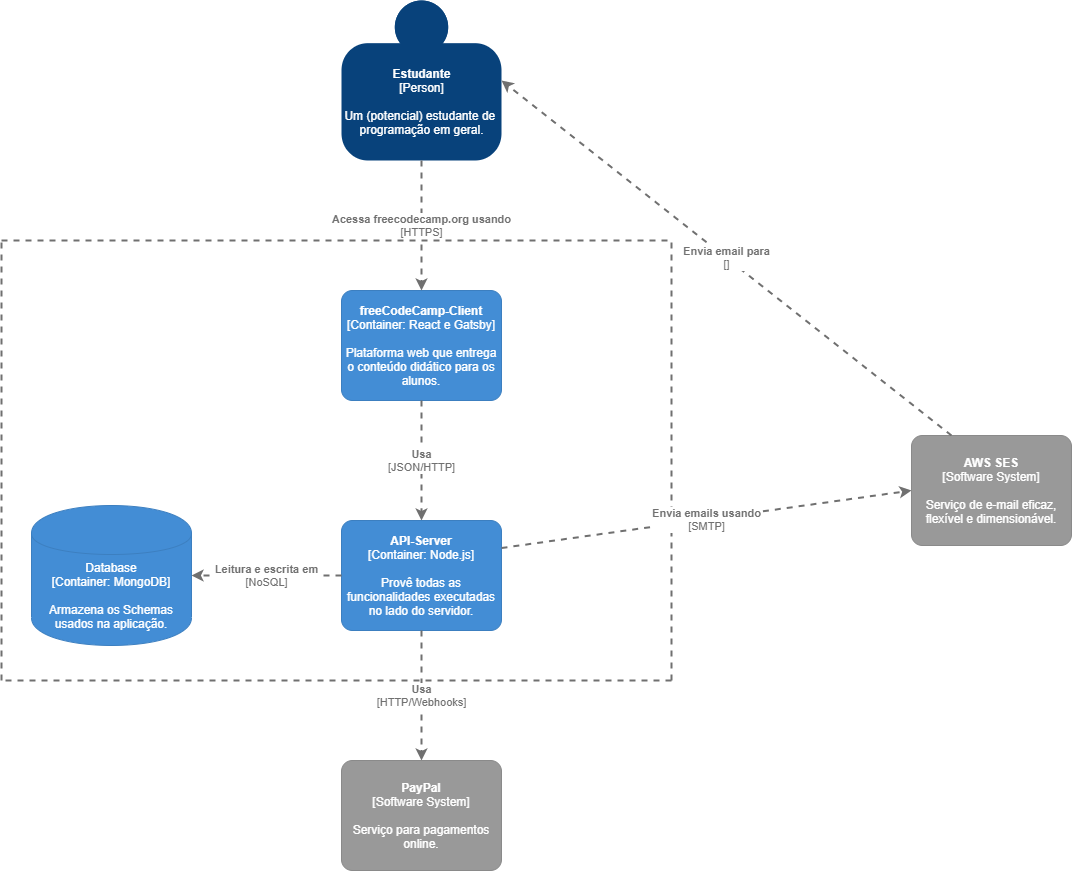
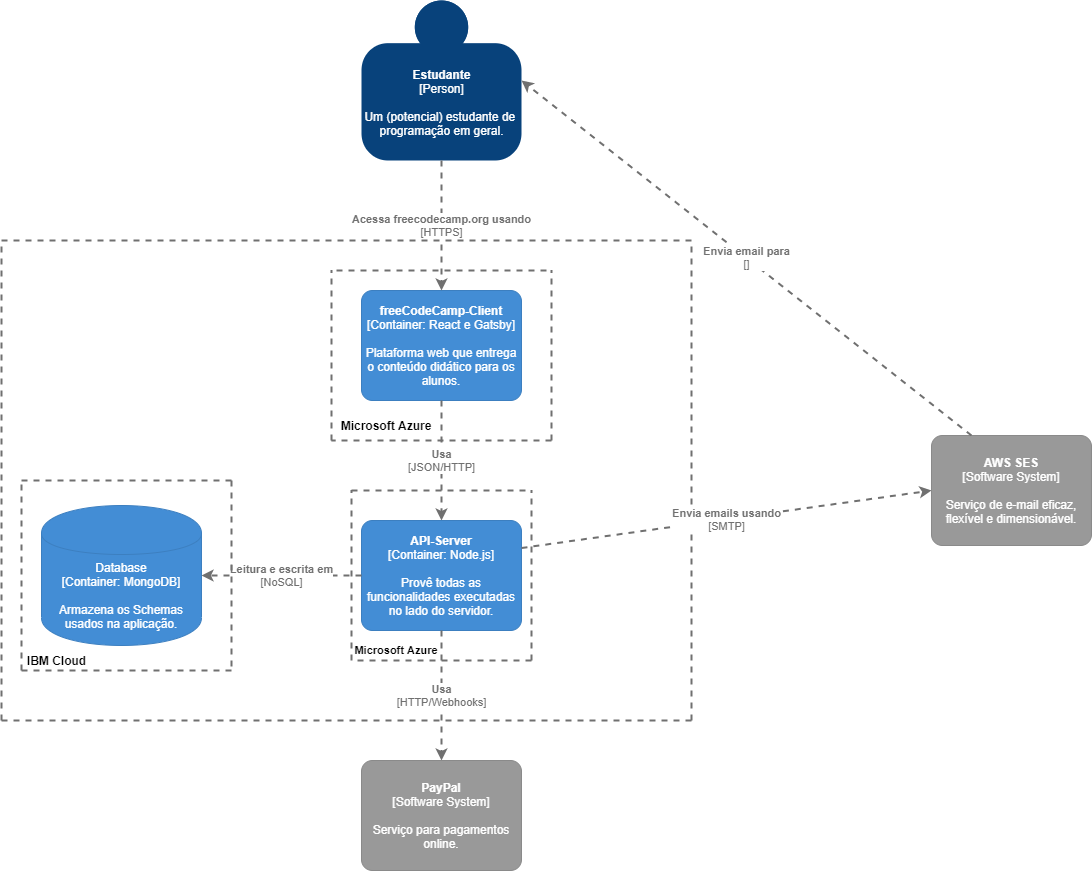
atualiza diagrama de containers e seção correspondente com aspectos da implantação do sistema

diff --git a/content/posts/free-code-camp.md b/content/posts/free-code-camp.md
@@ -52,4 +52,8 @@ A partir da imagem acima, infere-se que o container **freeCodeCamp-Client** (par
 
 * freeCodeCamp-Client: Nesse container, são executadas funções solicitadas pelo cliente. É responsável também por lidar com os eventos desencadeados pelas ações do usuário. Além disso, renderiza os componentes que, juntos, constroem as páginas da plataforma e fornecem para o usuário um ambiente interativo e prático. Comunica-se com a API usando o protocolo *HTTP*.
 * API-Server: Container que engloba toda a parte do servidor da aplicação. Define os models, rotinas de inicialização do sistema, templates para emails, etc. Além disso, preocupa-se com a lógica de aspectos como autenticação (usando *OAuth*) e doações. Como dito acima, esse container fornece uma API REST para ser, consequentemente, consumida pelo container do Client.
-* Database: Container que provê um armazenamento para os dados do sistema, como as informações dos usuários. A aplicação usa o *Compose*, uma plataforma *cloud database*, que torna o gerenciamento da DB mais prático e fácil. O banco de dados usado aqui é o Mongo, um banco de dados não relacional (NoSQL).
+* Database: Container que provê um armazenamento para os dados do sistema, como as informações dos usuários. A aplicação usa o *Compose*, uma plataforma *cloud database*, que torna o gerenciamento da DB mais prático e fácil. O banco de dados usado aqui é o Mongo, um banco de dados não relacional (NoSQL). O MongoDB no compose é oferecido através do serviço de *cloud* da IBM.
+
+Sobre a implantação do sistema, os containers freeCodeCamp-Client e API-Server traduzem-se em máquinas virtuais na núvem, providas pela plataforma Azure. Detalhes dos pipelines de testes de aceitação e CI podem ser vistos com mais detalhes através dos seguintes links:
+* [Azure DevOps](https://dev.azure.com/freeCodeCamp-org/freeCodeCamp/_build)
+* [Travis CI](https://travis-ci.org/github/freeCodeCamp/freeCodeCamp/branches).
